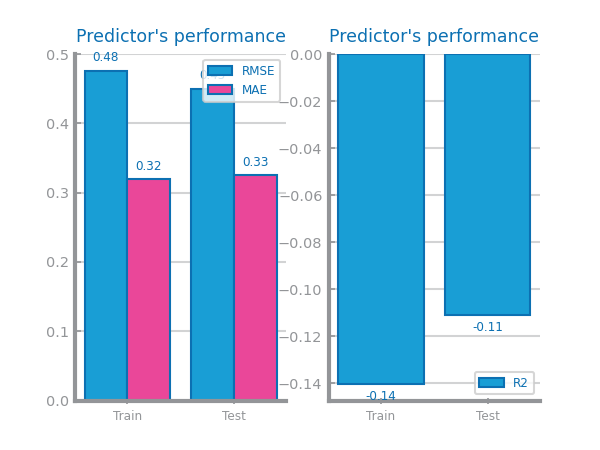
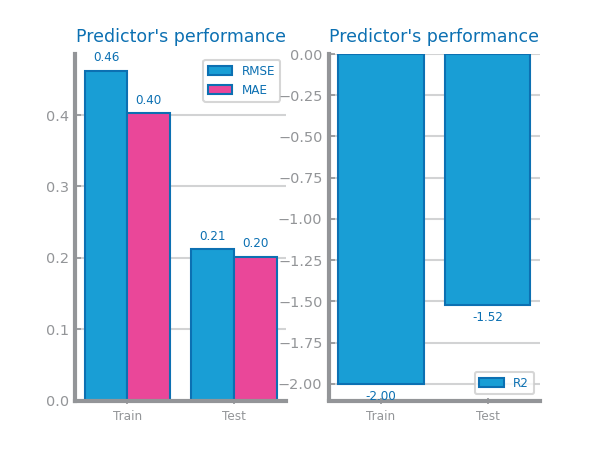
lab6 png dataset1 update

diff --git a/diabetesDataset/lab6/data_prep.py b/diabetesDataset/lab6/data_prep.py
@@ -54,7 +54,7 @@ data.to_csv('mv_glocose.csv')
 
 
 
-# %% smoothing
+# %% 
 from pandas import read_csv, Series, to_datetime
 from matplotlib.pyplot import figure, xticks, show, savefig
 from ts_functions import plot_series, HEIGHT
@@ -63,29 +63,8 @@ data = read_csv('preTransformationsGlucose.csv', na_values='')
 data['Date'] = to_datetime(data['Date'], format = "%Y/%m/%d %H:%M")
 data = data.set_index('Date')
 
-index_multi = 'Date'
-target_multi = 'Glucose'
 
-WIN_SIZE = 80
-rolling_multi = data.rolling(window=WIN_SIZE)
-smooth_df_multi = rolling_multi.mean()
-figure(figsize=(3*HEIGHT, HEIGHT))
-plot_series(smooth_df_multi[target_multi], title=f'Glucose - Smoothing (win_size={WIN_SIZE})', x_label=index_multi, y_label='values')
-plot_series(smooth_df_multi['Insulin'], title=f'Glucose - Smoothing (win_size={WIN_SIZE})', x_label=index_multi, y_label='values')
-xticks(rotation = 45)
-savefig('images/transformation/smoothing_80.png')
-
-
-WIN_SIZE = 12
-rolling_multi = data.rolling(window=WIN_SIZE)
-smooth_df_multi = rolling_multi.mean()
-figure(figsize=(3*HEIGHT, HEIGHT))
-plot_series(smooth_df_multi[target_multi], title=f'Glucose - Smoothing (win_size={WIN_SIZE})', x_label=index_multi, y_label='values')
-plot_series(smooth_df_multi['Insulin'], title=f'Glucose - Smoothing (win_size={WIN_SIZE})', x_label=index_multi, y_label='values')
-xticks(rotation = 45)
-savefig('images/transformation/smoothing_12.png')
-
-# %% aggregation
+# %% aggregation    ----- best is daily
 
 def aggregate_by(data: Series, index_var: str, period: str):
     index = data.index.to_period(period)
@@ -117,6 +96,45 @@ savefig('images/transformation/aggregation_d.png')
 # xticks(rotation = 45)
 # savefig('images/transformation/aggregation_m.png')
 
+
+
+
+# %%   smoothing   ----choose 10
+index_multi = 'Date'
+target_multi = 'Glucose'
+
+
+# WIN_SIZE = 30
+# rolling_multi = agg_multi_df.rolling(window=WIN_SIZE)
+# smooth_df_multi = rolling_multi.mean()
+# figure(figsize=(3*HEIGHT, HEIGHT))
+# plot_series(smooth_df_multi[target_multi], title=f'Glucose - Smoothing (win_size={WIN_SIZE})', x_label=index_multi, y_label='values')
+# plot_series(smooth_df_multi['Insulin'], title=f'Glucose - Smoothing (win_size={WIN_SIZE})', x_label=index_multi, y_label='values')
+# xticks(rotation = 45)
+# savefig('images/transformation/smoothing_30.png')
+
+
+# WIN_SIZE = 5
+# rolling_multi = agg_multi_df.rolling(window=WIN_SIZE)
+# smooth_df_multi = rolling_multi.mean()
+# figure(figsize=(3*HEIGHT, HEIGHT))
+# plot_series(smooth_df_multi[target_multi], title=f'Glucose - Smoothing (win_size={WIN_SIZE})', x_label=index_multi, y_label='values')
+# plot_series(smooth_df_multi['Insulin'], title=f'Glucose - Smoothing (win_size={WIN_SIZE})', x_label=index_multi, y_label='values')
+# xticks(rotation = 45)
+# savefig('images/transformation/smoothing_5.png')
+
+
+WIN_SIZE = 10
+rolling_multi = agg_multi_df.rolling(window=WIN_SIZE)
+smooth_df_multi = rolling_multi.mean()
+figure(figsize=(3*HEIGHT, HEIGHT))
+plot_series(smooth_df_multi[target_multi], title=f'Glucose - Smoothing (win_size={WIN_SIZE})', x_label=index_multi, y_label='values')
+plot_series(smooth_df_multi['Insulin'], title=f'Glucose - Smoothing (win_size={WIN_SIZE})', x_label=index_multi, y_label='values')
+xticks(rotation = 45)
+savefig('images/transformation/smoothing_10.png')
+
+smooth_df_multi.to_csv('glucose_after_smoothing.csv')
+
 # %%
 from sklearn.base import RegressorMixin
 from ts_functions import PREDICTION_MEASURES, plot_evaluation_results, plot_forecasting_series
@@ -131,7 +149,16 @@ def split_dataframe(data, trn_pct=0.70):
     test: DataFrame = df_cp.iloc[trn_size:]
     return train, test
 ########### só está para univariados ######### é preciso mudar
-train, test = split_dataframe(agg_multi_df, trn_pct=0.75)
+# agg_multi_df = agg_multi_df.drop('Insulin', axis = 1)
+# train, test = split_dataframe(agg_multi_df, trn_pct=0.75)
+
+# data = data.drop('Insulin', axis = 1)
+# train, test = split_dataframe(data, trn_pct=0.75)
+
+smooth_df_multi
+smooth_df_multi = smooth_df_multi.drop('Insulin', axis = 1)
+smooth_df_multi = smooth_df_multi.iloc[9:,:]
+train, test = split_dataframe(smooth_df_multi, trn_pct=0.75)
 
 class PersistenceRegressor (RegressorMixin):
     def __init__(self):
@@ -160,9 +187,9 @@ print(eval_results)
 # %%
 
 plot_evaluation_results(train.values, prd_trn, test.values, prd_tst, 'images/transformation/persistence_eval.png')
-savefig('images/transformation/persistence_eval_mon.png')
+savefig('images/transformation/smoothing_eval_10.png')
 plot_forecasting_series(train, test, prd_trn, prd_tst, 'images/transformation/_persistence_plots.png', x_label='Date', y_label='Glucose')
-savefig('images/transformation/_persistence_plots_mon.png')
+savefig('images/transformation/smoothing_plots_10.png')
 
 
 # %%
